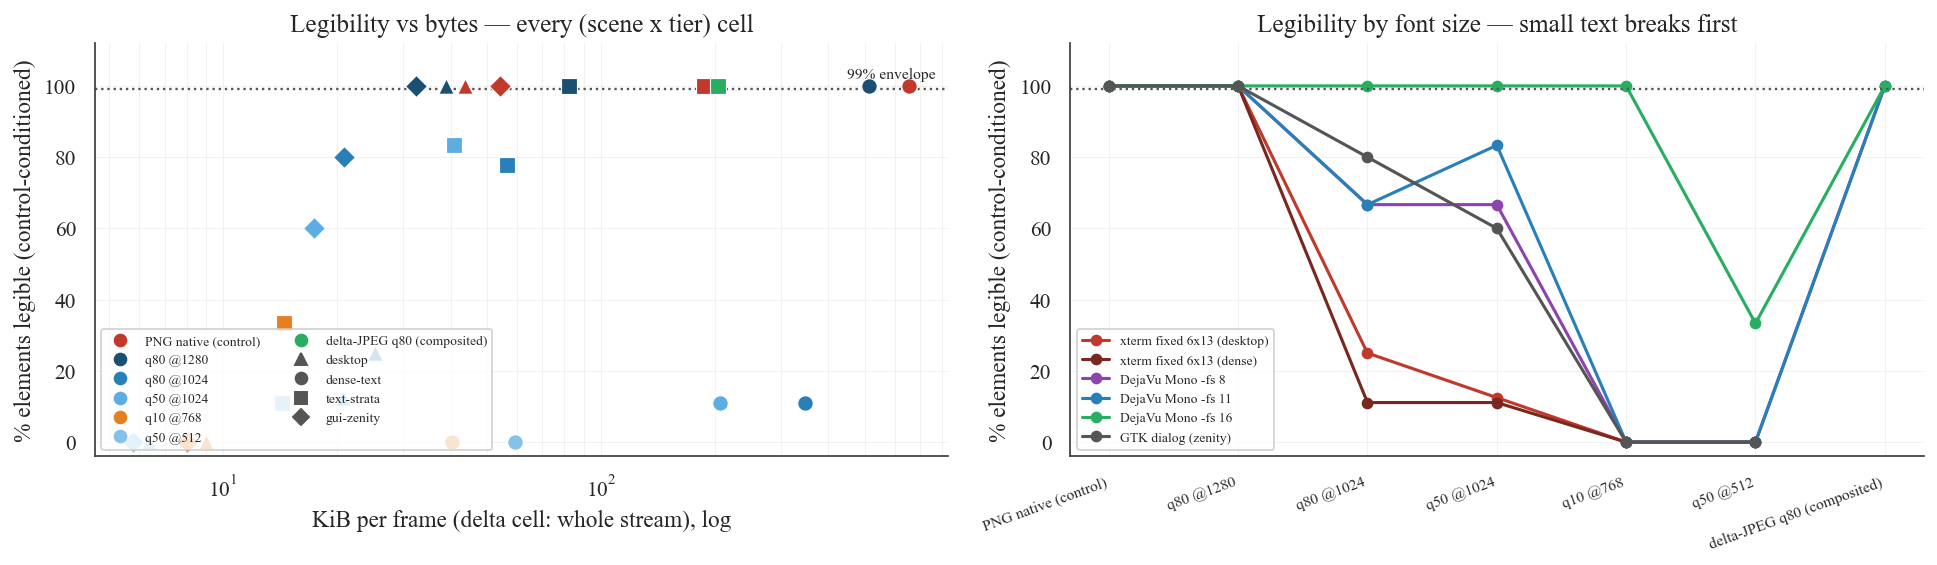
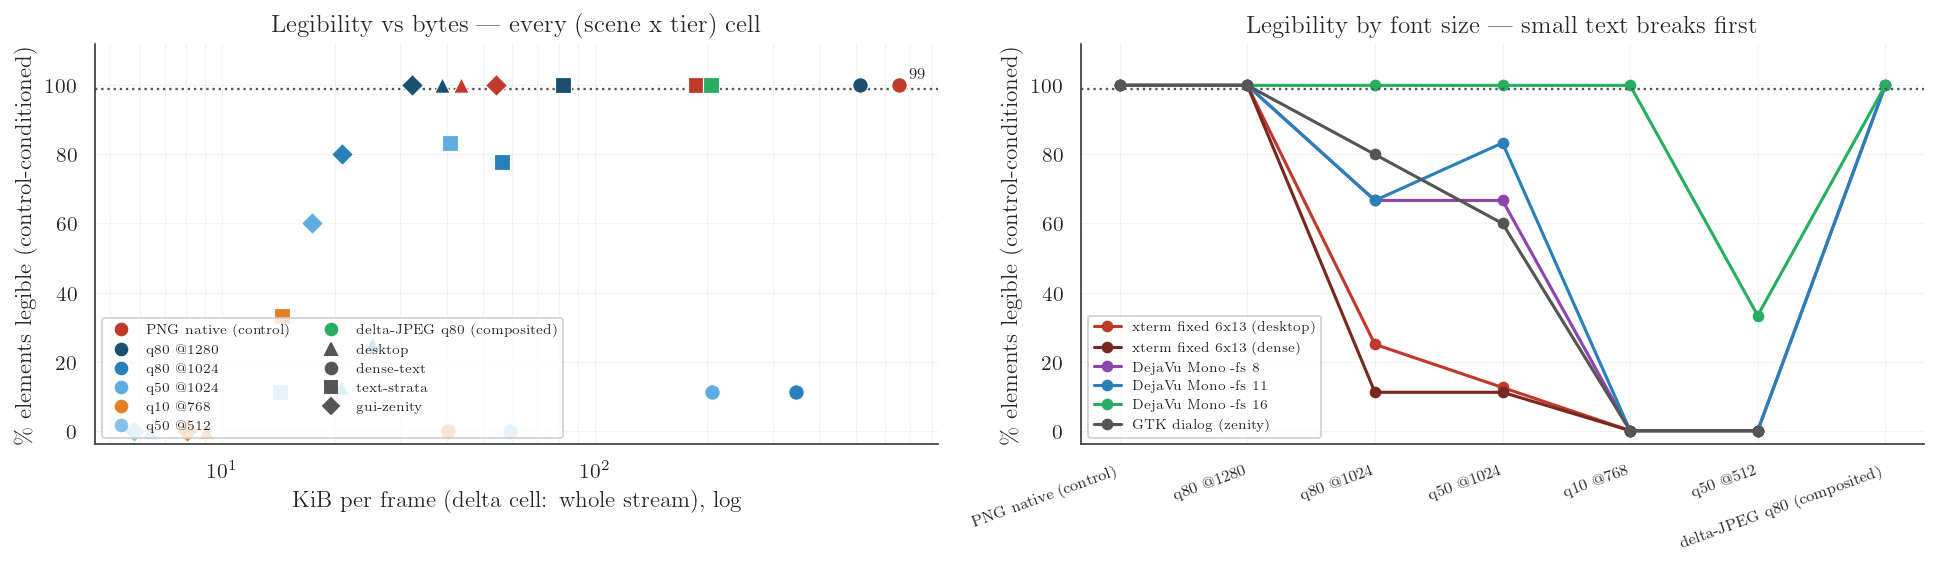
bench: render all figure text with real LaTeX (usetex, Times/mathptmx) and regenerate the 21 tracked figures (#269)
style() now sets text.usetex with Times New Roman (matplotlib maps it to
mathptmx) and Type-42 font embedding; sizes/layout unchanged. Display
strings that LaTeX would reject are escaped at the call sites
(\%, \#, $\to$, $\times$, $\leq$). benchmarks.md notes the TeX
toolchain requirement for replot.

diff --git a/benchmarks/plot_remote.py b/benchmarks/plot_remote.py
@@ -75,7 +75,7 @@ def remote_codec_ladder():
     ax.set_xticks([30, 40, 50, 60, 70, 80, 90, 95])
     ax.set_xlabel("JPEG quality")
     ax.set_ylabel("bytes per frame (KiB, log)")
-    ax.set_title("Remote WAN codec ladder — bytes vs JPEG quality × downscale")
+    ax.set_title("Remote WAN codec ladder — bytes vs JPEG quality $\\times$ downscale")
     ax.legend(loc="center left", bbox_to_anchor=(1.01, 0.5), frameon=False)
     ax.text(
         0.98,
@@ -110,7 +110,7 @@ def bandwidth_bars():
     ax.set_ylabel("bytes per frame (KiB, log)")
     ax.set_title("Per-frame observation size — PNG vs JPEG (remote WAN)")
     for i, (b, v) in enumerate(zip(bars, vals)):
-        tag = "baseline" if i == 0 else f"{base / v:.0f}× vs PNG"
+        tag = "baseline" if i == 0 else f"{base / v:.0f}$\\times$ vs PNG"
         ax.text(b.get_x() + b.get_width() / 2, v * 1.12, f"{v:.1f} KiB\n{tag}", ha="center", fontsize=9)
     save_plot(fig, "bandwidth_bars")
 
@@ -179,7 +179,7 @@ def aggregate_projection():
     _log_yticks(ax, [10, 100, 1000, 10000])
     ax.set_xlabel("concurrent sandboxes (N), 1 observation/s")
     ax.set_ylabel("aggregate egress (Mbps, log)")
-    ax.set_title("Projected aggregate egress — N sandboxes × 1 Hz")
+    ax.set_title("Projected aggregate egress — N sandboxes $\\times$ 1 Hz")
     ax.text(
         0.02,
         0.97,
@@ -248,7 +248,7 @@ def a11y_coverage():
         0.95,
         "addressable = roled + bbox + actionable\n"
         "CDP page rows: 0.23 of all nodes but 1.00 of labeled controls\n"
-        "one-off a11y-coverage spike (E5/#2), Linux/X11 image",
+        "one-off a11y-coverage spike (E5/\\#2), Linux/X11 image",
         transform=ax.transAxes,
         ha="right",
         va="top",

diff --git a/benchmarks/_common.py b/benchmarks/_common.py
@@ -465,7 +465,7 @@ def write_result(suite: str, payload: dict[str, Any]) -> Path:
 def style() -> None:
     """Apply the one shared matplotlib style (Agg, no display). Idempotent; called
     by ``new_axes`` and importable by any plotting script outside this package.
-    Paper aesthetic: seaborn whitegrid + Times New Roman with STIX math."""
+    Paper aesthetic: seaborn whitegrid + real LaTeX text (usetex) in Times."""
     import matplotlib
 
     matplotlib.use("Agg")
@@ -476,9 +476,13 @@ def style() -> None:
     plt.rcParams.update(
         {
             "figure.dpi": 140,
-            "font.family": "serif",
-            "font.serif": ["Times New Roman", "STIXGeneral", "DejaVu Serif"],
+            "text.usetex": True,
+            "text.latex.preamble": "",
+            "font.family": "Times New Roman",
+            "font.serif": ["Times New Roman"],
             "mathtext.fontset": "stix",
+            "pdf.fonttype": 42,
+            "ps.fonttype": 42,
             "font.size": 12,
             "axes.titlesize": 13,
             "axes.labelsize": 12,

diff --git a/benchmarks/bench_fork.py b/benchmarks/bench_fork.py
@@ -403,7 +403,7 @@ def plot_pool(payload: dict) -> None:
     ax1.set_xticklabels([b[0] for b in bars], fontsize=9)
     ax1.set_ylabel("seconds to a usable replica (mean, min–max)")
     k = payload.get("pool", {}).get("k")
-    ax1.set_title(f"Fork→usable: warm-pool graft vs cold paths (K={k})")
+    ax1.set_title(f"Fork$\\to$usable: warm-pool graft vs cold paths (K={k})")
 
     walls = sorted(d["fanout_walls"], key=lambda w: w["n"])
     ns = [w["n"] for w in walls]
@@ -441,7 +441,7 @@ def plot_pool(payload: dict) -> None:
     )
     ax2.set_xlabel("N replicas forked from one checkpoint")
     ax2.set_ylabel("seconds")
-    ax2.set_title("Per-replica fork→usable across the fan-out")
+    ax2.set_title("Per-replica fork$\\to$usable across the fan-out")
     ax2.legend(loc="center right", fontsize=8.5)
     save_plot(fig, "fork_resume_pool")
 

diff --git a/benchmarks/bench_obs_quality.py b/benchmarks/bench_obs_quality.py
@@ -827,7 +827,7 @@ def plot(payload: dict) -> None:
     )
     ax1.set_xscale("log")
     ax1.set_xlabel("KiB per frame (delta cell: whole stream), log")
-    ax1.set_ylabel("% elements legible (control-conditioned)")
+    ax1.set_ylabel("\\% elements legible (control-conditioned)")
     ax1.set_ylim(-4, 112)
     ax1.set_title("Legibility vs bytes — every (scene x tier) cell")
     tier_handles = [
@@ -861,7 +861,7 @@ def plot(payload: dict) -> None:
     ax2.set_xticklabels(
         [_TIER_LABELS[t] for t in tiers], rotation=20, ha="right", fontsize=8
     )
-    ax2.set_ylabel("% elements legible (control-conditioned)")
+    ax2.set_ylabel("\\% elements legible (control-conditioned)")
     ax2.set_ylim(-4, 112)
     ax2.set_title("Legibility by font size — small text breaks first")
     ax2.legend(loc="lower left", fontsize=7)

diff --git a/benchmarks/bench_baseline_cua.py b/benchmarks/bench_baseline_cua.py
@@ -716,7 +716,7 @@ def plot(summary: dict) -> None:
             fontsize=9,
         )
     ax.set_ylabel("seconds (p50)")
-    ax.set_title("boot → usable\n(create + connect + first screenshot)")
+    ax.set_title("boot $\\to$ usable\n(create + connect + first screenshot)")
 
     # panel 2 — act+observe step
     ax = axes[1]
@@ -755,7 +755,7 @@ def plot(summary: dict) -> None:
             "shinken",
         ),
         (
-            "fork → usable",
+            "fork $\\to$ usable",
             _p50(summary.get("shinken", {}).get("fork_to_usable_ms")),
             "shinken",
             "shinken",

diff --git a/benchmarks/bench_boot_waterfall.py b/benchmarks/bench_boot_waterfall.py
@@ -345,7 +345,7 @@ def plot(payload: dict) -> None:
     ax.set_ylim(len(runs) - 0.4, -0.75)  # inverted, tight rows
     ax.set_xlabel("ms since `docker run` issued (p50 of cumulative milestones)")
     note = "contended host" if payload.get("contended_host") else "quiet host"
-    ax.set_title(f"Cold-boot waterfall — docker run → usable sandbox ({note})")
+    ax.set_title(f"Cold-boot waterfall — docker run $\\to$ usable sandbox ({note})")
     ax.legend(loc="upper center", bbox_to_anchor=(0.5, -0.22), fontsize=8.5, ncols=3)
     save_plot(fig, "boot_waterfall")
 

diff --git a/benchmarks/bench_fork_dedup.py b/benchmarks/bench_fork_dedup.py
@@ -445,7 +445,7 @@ def plot(payload: dict) -> None:
     )
     for x, (o, s) in enumerate(zip(off, static, strict=False)):
         if s > 0:
-            ax1.text(x, max(o, s) * 1.03, f"{o / s:.1f}×", ha="center", fontsize=9)
+            ax1.text(x, max(o, s) * 1.03, f"{o / s:.1f}$\\times$", ha="center", fontsize=9)
     ax1.set_xticks(list(xs))
     ax1.set_xticklabels([f"N={f['n']}" for f in fleets])
     ax1.set_ylabel("wire KiB per observe-all round (mean)")

diff --git a/benchmarks/bench_step_pipeline.py b/benchmarks/bench_step_pipeline.py
@@ -209,7 +209,7 @@ def plot(payload: dict) -> None:
         ax2.axhline(k + 1, ls=":", lw=0.9, color=c, alpha=0.7)
     ax2.set_xlabel("added WAN RTT (ms, delay proxy)")
     ax2.set_ylabel("speedup: sequential p50 / step() p50")
-    ax2.set_title("Convergence to the (k+1)× RTT bound (dotted)")
+    ax2.set_title("Convergence to the (k+1)$\\times$ RTT bound (dotted)")
     ax2.legend(fontsize=8, loc="upper left")
     save_plot(fig, "step_pipeline")
 

diff --git a/benchmarks/bench_osworld_loop.py b/benchmarks/bench_osworld_loop.py
@@ -455,7 +455,7 @@ def plot(payload: dict) -> None:
         ax1.axvline(p50, color=color, linewidth=0.7, alpha=0.4, linestyle="--")
     ax1.set_xscale("log")
     ax1.set_xlabel("full agent step, act + observe (ms, log)")
-    ax1.set_ylabel("fraction of steps ≤ x")
+    ax1.set_ylabel("fraction of steps $\\leq$ x")
     ax1.set_title(
         f"Per-step latency CDF — same guest, same display (N={payload['reps']})"
     )

diff --git a/benchmarks/bench_guest_cpu.py b/benchmarks/bench_guest_cpu.py
@@ -282,7 +282,7 @@ def plot(payload: dict) -> None:
         )
         ax.set_xticks(list(x))
         ax.set_xticklabels(labels)
-        ax.set_ylabel("guest CPU % of one core (shinkend + Xvfb)")
+        ax.set_ylabel("guest CPU \\% of one core (shinkend + Xvfb)")
         ax.set_title(
             f"Guest capture cost — {workload} desktop\n"
             f"(delta-JPEG q80 stream, {payload['window_s']:g}s windows)"

diff --git a/benchmarks/bench_action_latency.py b/benchmarks/bench_action_latency.py
@@ -153,7 +153,7 @@ def plot(payload: dict) -> None:
     ax2.set_title(f"Latency CDF — observation ops, binary vs text (N={payload['obs_reps']}/op)")
 
     for ax in (ax1, ax2):
-        ax.set_ylabel("fraction of calls ≤ x")
+        ax.set_ylabel("fraction of calls $\\leq$ x")
         ax.set_ylim(0, 1.02)
         ax.legend(fontsize=8, loc="lower right")
     save_plot(fig, "action_latency")

diff --git a/benchmarks/bench_client_scale.py b/benchmarks/bench_client_scale.py
@@ -587,7 +587,7 @@ def plot(payload: dict) -> None:
     ax_d.set_xlim(left=0)
     ax_d.set_ylim(0, 1.02)
     ax_d.set_xlabel(f"per-observation latency at N={n_max} (ms)")
-    ax_d.set_ylabel("fraction of observations ≤ x")
+    ax_d.set_ylabel("fraction of observations $\\leq$ x")
     ax_d.set_title(f"Observe latency CDF at N={n_max}")
     ax_d.legend(loc="lower right")
 
